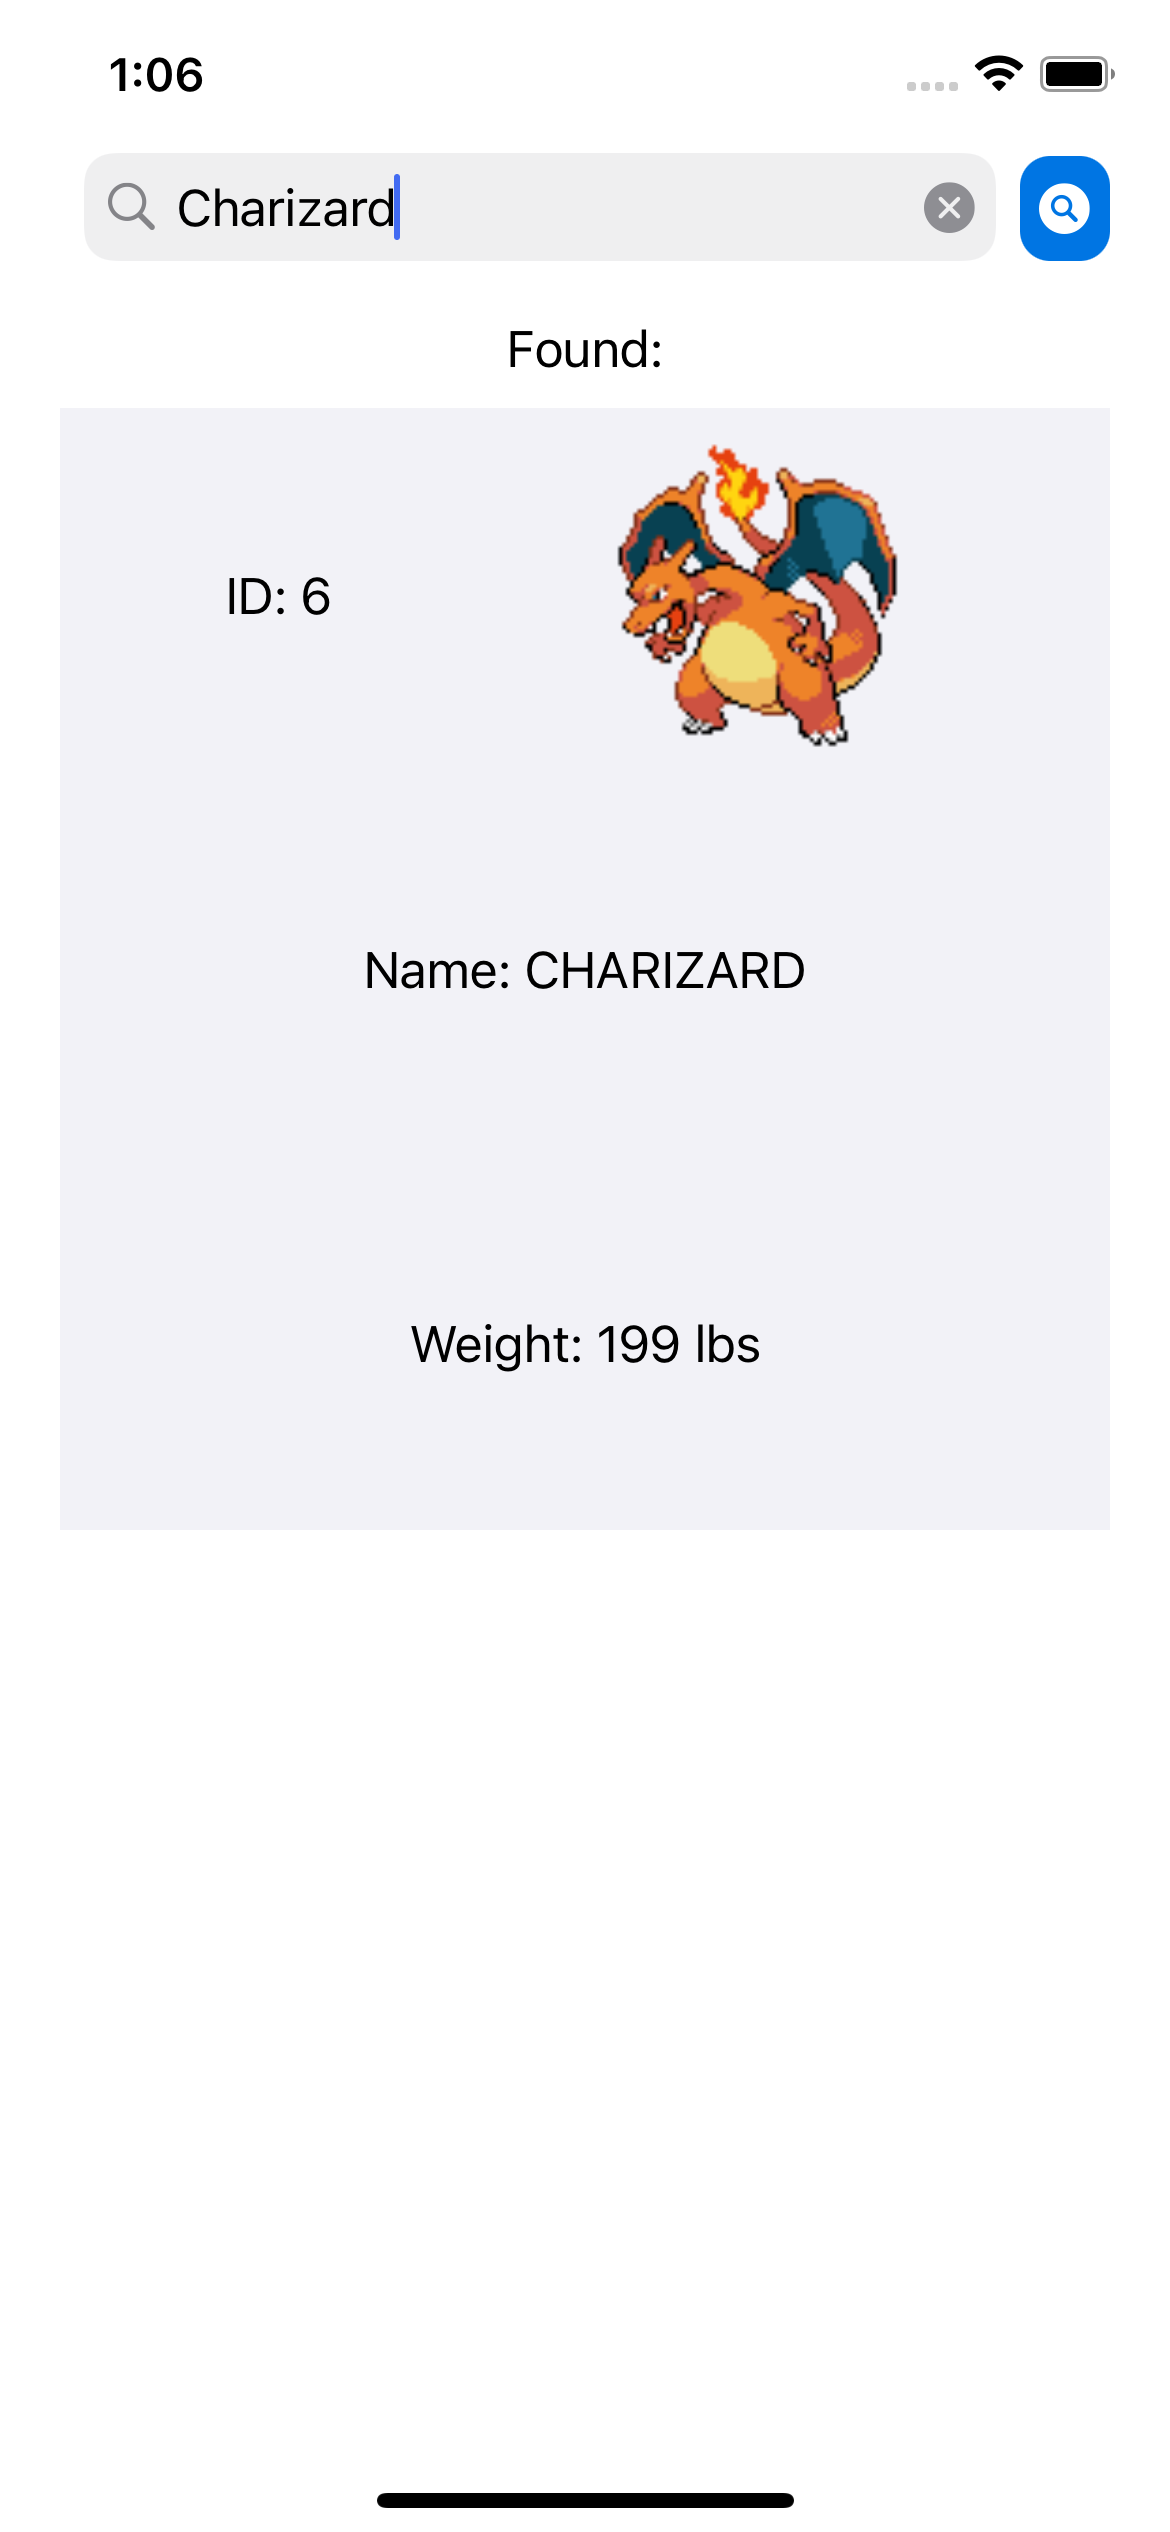
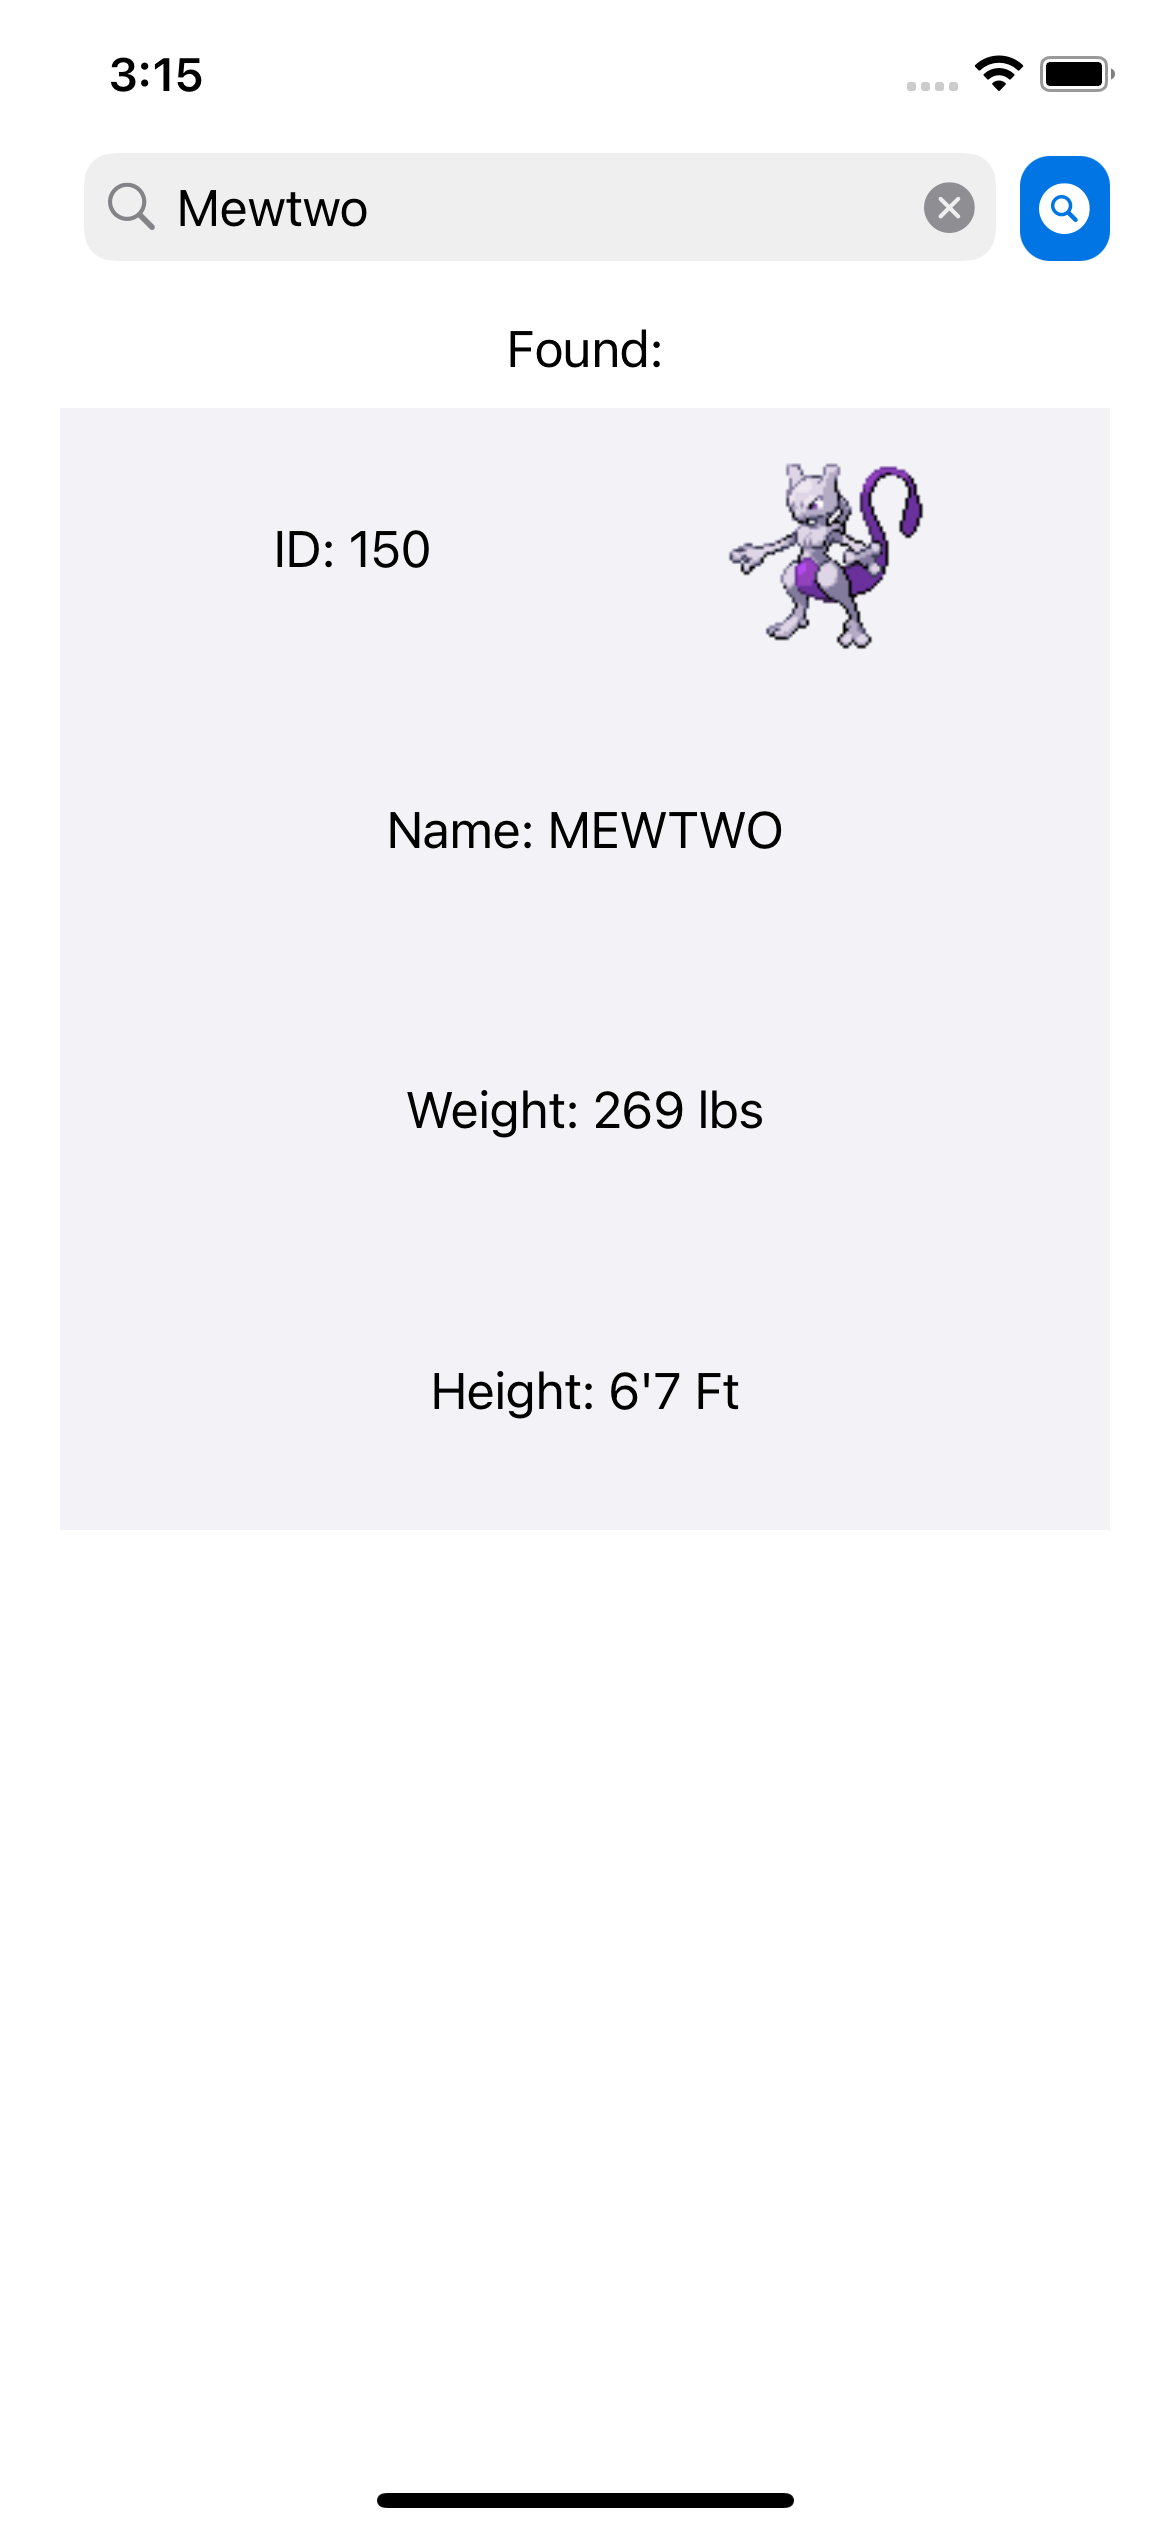
Add Pokemon Height

diff --git a/Pokedex/Controller/ViewController.swift b/Pokedex/Controller/ViewController.swift
@@ -15,6 +15,7 @@ class ViewController: UIViewController {
     @IBOutlet weak var imgView: UIImageView!
     @IBOutlet weak var nameLbl: UILabel!
     @IBOutlet weak var weightLbl: UILabel!
+    @IBOutlet weak var heightLbl: UILabel!
     
     @IBAction func searchBtnTapped(_ sender: UIButton) {
         fetchData(query: searchBar.text?.lowercased() ?? "")
@@ -39,18 +40,29 @@ class ViewController: UIViewController {
     func setupView(pokemon: Pokemon) {
         idLbl.text = "ID: " + String(pokemon.id)
         nameLbl.text = "Name: " + pokemon.name.uppercased()
+        // Convert weight from grams to pounds
         let weightInGrams = pokemon.weight ?? 0
         let weightInPounds = convertToPounds(grams: weightInGrams)
         weightLbl.text = "Weight: " + String(weightInPounds) + " lbs"
+        // Convert height from cm to feet (1 decimal place)
+        let height = pokemon.height ?? 0
+        let heightInFt = convertToFeet(cm: height)
+        heightLbl.text = "Height: " + String(heightInFt) + " Ft"
         // Create image and update imageView
         if let data = try? Data(contentsOf: pokemon.sprites.frontDefault) {
             imgView.image = UIImage(data: data)
         }
     }
     
-    func convertToPounds(grams: Int) -> Int {
+    private func convertToPounds(grams: Int) -> Int {
         let newMass = (Double(grams) * 100) / 454
         let roundedMass = Int(round(newMass))
         return roundedMass
+    }
+    
+    private func convertToFeet(cm: Int) -> String {
+        let newHeight = (Double(cm) * 10) / 30
+        let roundedHeight = String(format: "%.1f", newHeight).replacingOccurrences(of: ".", with: "'")
+        return roundedHeight
     }
 }

diff --git a/Pokedex/Model/Pokemon.swift b/Pokedex/Model/Pokemon.swift
@@ -11,6 +11,7 @@ struct Pokemon: Decodable {
     let id: Int
     let name: String
     let weight: Int?
+    let height: Int? 
     let sprites: Sprites
 }
 

diff --git a/README.md b/README.md
@@ -11,8 +11,8 @@ A UIKit app that displays Pokemon from the PokeAPI (https://pokeapi.co/)
 
 ## App Screenshots
 
-<img src="imgs/ss1.png" width="50%" height="50%"> 
+<img src="imgs/ss1.png" width="50%" height="50%">| <img src="imgs/ss2.png" width="50%" height="50%"> 
 
 ### Support 
 - Built using Xcode 12.4
-- Tested on iOS 14.0
+- Tested on iOS 13.0+ 
